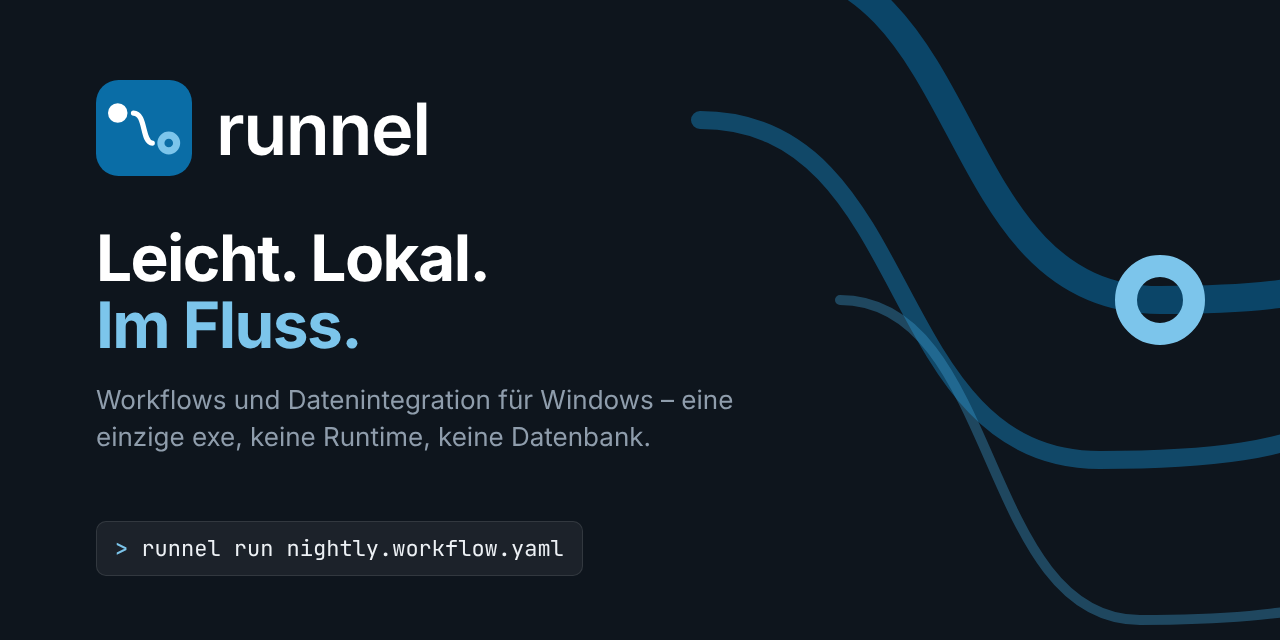
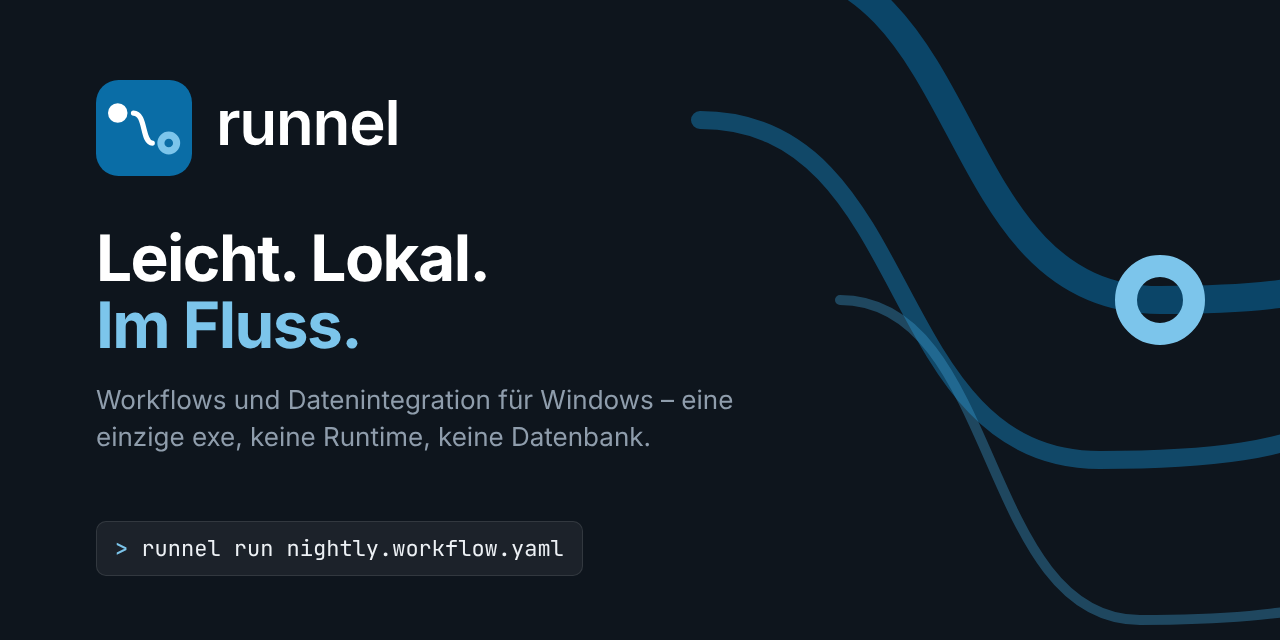
Define spelling of the product name (Runnel vs. runnel)
Product name is "Runnel" in text, UI and Windows metadata; lowercase
"runnel" only as the graphical wordmark and as command/identifier in
monospace. Adds handbook section 7.1, records the decision in ADR 0011
and embeds the wordmark as SVG in the social card instead of live text.

Claude-Session: https://claude.ai/code/session_015qsFffFa9D28XBkcuBJQ3p

Changed region(s): [[0.1562, 0.1562, 0.3438, 0.25]]

diff --git a/design/social/social-card.html b/design/social/social-card.html
@@ -1,6 +1,7 @@
 <!doctype html>
 <!-- Vorlage für Social-/Open-Graph-Bild (1280 × 640). Als PNG exportiert: social-card.png.
-     Schriften: Inter und JetBrains Mono müssen installiert oder per @font-face eingebunden sein. -->
+     Das Logo ist als SVG eingebettet (Wortmarke nie als Text setzen).
+     Schriften für Claim und Text: Inter und JetBrains Mono müssen installiert oder per @font-face eingebunden sein. -->
 <html lang="de"><head><meta charset="utf-8"><title>Runnel Social Card</title>
 <style>
   :root { --strom-300:#7CC5EB; --strom-400:#3FA6DD; --strom-600:#0A6DA6; --tiefe-950:#0E151D; --tiefe-400:#8F9DAC; --tiefe-100:#EDF1F5; }
@@ -10,8 +11,7 @@
   .flow { position:absolute; inset:0; }
   .content { position:absolute; left:96px; top:80px; width:720px; }
   .logo { display:flex; align-items:center; gap:24px; }
-  .logo svg { width:96px; height:96px; }
-  .logo span { font-size:72px; font-weight:600; letter-spacing:-0.02em; }
+  .logo .logo-svg { height:96px; width:auto; display:block; }
   h1 { margin:48px 0 0; font-size:64px; line-height:1.05; font-weight:700; letter-spacing:-0.025em; }
   h1 em { font-style:normal; color:var(--strom-300); }
   p { margin:24px 0 0; font-size:26px; line-height:1.4; color:var(--tiefe-400); max-width:640px; }
@@ -29,10 +29,7 @@
     <circle cx="1160" cy="300" r="34" fill="none" stroke="#7CC5EB" stroke-width="22"/>
   </svg>
   <div class="content">
-    <div class="logo">
-      <svg viewBox="0 0 64 64"><rect width="64" height="64" rx="15" fill="#0A6DA6"/><circle cx="14.5" cy="22" r="6.5" fill="#fff"/><path d="M25 22C33.5 22 30.5 42 37.5 42" fill="none" stroke="#fff" stroke-width="3.5" stroke-linecap="round"/><circle cx="48.5" cy="42" r="5.25" fill="none" stroke="#7CC5EB" stroke-width="4.75"/></svg>
-      <span>runnel</span>
-    </div>
+    <div class="logo"><svg xmlns="http://www.w3.org/2000/svg" viewBox="0 0 204 64" class="logo-svg" role="img" aria-label="Runnel"><rect width="64" height="64" rx="15" fill="#0A6DA6"/><g><circle cx="14.5" cy="22" r="6.5" fill="#FFFFFF"/><path d="M25 22C33.5 22 30.5 42 37.5 42" fill="none" stroke="#FFFFFF" stroke-width="3.5" stroke-linecap="round"/><circle cx="48.5" cy="42" r="5.25" fill="none" stroke="#7CC5EB" stroke-width="4.75"/></g><path transform="translate(80 43.25) scale(0.020134)" fill="#FFFFFF" d="M138 0V-1118H390V-931H402Q432 -1028 507 -1080.5Q582 -1133 678 -1133Q700 -1133 727 -1131Q754 -1129 773 -1126V-887Q757 -892 721 -896Q685 -900 650 -900Q578 -900 520.5 -869Q463 -838 430.5 -783.5Q398 -729 398 -658V0Z M1293 14Q1178 14 1091.5 -35Q1005 -84 957.5 -178.5Q910 -273 910 -407V-1118H1170V-447Q1170 -335 1228.5 -271Q1287 -207 1389 -207Q1458 -207 1512 -237Q1566 -267 1596.5 -325Q1627 -383 1627 -463V-1118H1888V0H1641L1638 -276H1658Q1611 -130 1519 -58Q1427 14 1293 14Z M2383.1 -655V0H2123.1V-1118H2369.1L2373.1 -842H2352.1Q2399.1 -987 2490.1 -1059.5Q2581.1 -1132 2718.1 -1132Q2833.1 -1132 2919.1 -1083Q3005.1 -1034 3052.6 -940Q3100.1 -846 3100.1 -711V0H2840.1V-671Q2840.1 -783 2782.1 -847Q2724.1 -911 2622.1 -911Q2553.1 -911 2499.1 -881Q2445.1 -851 2414.1 -793.5Q2383.1 -736 2383.1 -655Z M3595.1 -655V0H3335.1V-1118H3581.1L3585.1 -842H3564.1Q3611.1 -987 3702.1 -1059.5Q3793.1 -1132 3930.1 -1132Q4045.1 -1132 4131.1 -1083Q4217.1 -1034 4264.6 -940Q4312.1 -846 4312.1 -711V0H4052.1V-671Q4052.1 -783 3994.1 -847Q3936.1 -911 3834.1 -911Q3765.1 -911 3711.1 -881Q3657.1 -851 3626.1 -793.5Q3595.1 -736 3595.1 -655Z M5041.2 23Q4872.2 23 4750.7 -48Q4629.2 -119 4563.7 -248Q4498.2 -377 4498.2 -552Q4498.2 -725 4562.7 -855Q4627.2 -985 4745.7 -1058.5Q4864.2 -1132 5024.2 -1132Q5126.2 -1132 5218.7 -1099Q5311.2 -1066 5382.7 -997Q5454.2 -928 5494.7 -821.5Q5535.2 -715 5535.2 -568V-486H4621.2V-663H5406.2L5284.2 -611Q5284.2 -705 5255.2 -776.5Q5226.2 -848 5168.7 -888Q5111.2 -928 5025.2 -928Q4939.2 -928 4879.2 -887.5Q4819.2 -847 4787.7 -779.5Q4756.2 -712 4756.2 -629V-507Q4756.2 -401 4792.2 -328Q4828.2 -255 4893.2 -218Q4958.2 -181 5044.2 -181Q5101.2 -181 5147.7 -197.5Q5194.2 -214 5228.2 -246.5Q5262.2 -279 5279.2 -326L5518.2 -277Q5491.2 -187 5426.2 -119.5Q5361.2 -52 5263.7 -14.5Q5166.2 23 5041.2 23Z M5977.2 -1490V0H5717.2V-1490Z"/></svg></div>
     <h1>Leicht. Lokal.<br><em>Im Fluss.</em></h1>
     <p>Workflows und Datenintegration für Windows – eine einzige exe, keine Runtime, keine Datenbank.</p>
   </div>

diff --git a/design/README.md b/design/README.md
@@ -80,8 +80,8 @@ Inter SemiBold mit −2 % Laufweite, als Pfade gespeichert (keine Schrift nötig
 | `logo/runnel-wordmark.svg`, `…-inverse.svg` | Nur Wortmarke (wenn das Icon bereits daneben steht) |
 | `logo/png/runnel-logo.png`, `…-inverse.png` | 1020 × 320 px für Office, Präsentationen, E-Mail-Signatur |
 
-Im Fließtext heißt das Produkt immer **Runnel** (großes R). Die Kleinschreibung gibt es nur in der Wortmarke und
-als Befehl (`runnel`).
+Der Produktname ist **Runnel** (großes R). Die Kleinschreibung „runnel“ gibt es nur als **Grafik** (Wortmarke als
+SVG/PNG) und als **Befehl** in Monospace – nie als getippter Text. Details: [Kapitel 7.1](#71-schreibweise-des-namens).
 
 ### 2.3 Regeln
 
@@ -89,6 +89,8 @@ als Befehl (`runnel`).
 - **Mindestgröße:** App-Icon 16 px (dann `runnel-icon-small.svg`), Logo mit Wortmarke 96 px breit (Bildschirm) bzw. 25 mm (Druck).
 - **Hintergründe:** Standard-Logo auf Weiß bis Tiefe-100; Inverse-Logo auf Tiefe-800 bis Tiefe-950 und Strom-700 bis Strom-950.
   Auf Fotos nur das App-Icon (mit eigener Fläche).
+- **Wortmarke nie nachsetzen:** „runnel“ wird nicht mit einer Schrift als Text gesetzt (auch nicht in HTML oder
+  Präsentationen), sondern immer als Datei eingebunden. Wo ein Name als Text nötig ist, steht „Runnel“.
 - **Nicht erlaubt:** verzerren, drehen, spiegeln (der Fluss geht immer von oben links nach unten rechts), Farben
   austauschen, Link verdicken oder an Start/Ziel anschließen, Schatten/Verläufe/Konturen hinzufügen, Wortmarke in einer anderen Schrift nachsetzen, Ring und Punkt vertauschen.
 
@@ -247,7 +249,9 @@ Canvas-Konventionen ([Konzept, Kap. 11](../docs/KONZEPT.md#11-editor--ux-konzept
 | Links | 2 px, Bézier wie in der Bildmarke; Farbe nach Typ (`--link-*`), Symbol ✔/✖/∞/ƒ in der Mitte; aktiv = „Strömung“ |
 | Zeilenzähler an Links | Monospace 11 px, `tabular-nums`, Pille auf `--card` |
 
-Der Editor zeigt das Logo nur einmal: App-Icon (20 px) + Wortmarke oben links. Favicon und Fenster-Icon (WebView2) = `favicon.svg` bzw. `runnel.ico`.
+Der Editor zeigt das Logo nur einmal: App-Icon (20 px) + Wortmarke als SVG oben links, mit `aria-label="Runnel"`.
+Favicon und Fenster-Icon (WebView2) = `favicon.svg` bzw. `runnel.ico`. Fenster- und Tab-Titel: „‹Datei› – Runnel“,
+z. B. „nightly-import – Runnel“; ohne geöffnete Datei nur „Runnel“.
 
 ### 6.2 Website
 
@@ -302,6 +306,28 @@ Farben nur bei TTY und ohne `NO_COLOR`; Symbole (✔ ✖ ⚠) immer, damit Logs 
 ---
 
 ## 7. Sprache und Ton
+
+### 7.1 Schreibweise des Namens
+
+| Kontext | Schreibweise |
+|---|---|
+| Fließtext, Überschriften, UI-Texte, Alt-Texte, Tooltips, Fenster- und Tab-Titel | **Runnel** |
+| Windows: `ProductName`/`FileDescription` der exe, Anzeigename des Dienstes, Startmenü, Installer, winget-Name | **Runnel** |
+| Logo, Wortmarke | **runnel** – ausschließlich als SVG/PNG aus `logo/`, nie mit einer Schrift nachgesetzt |
+| Befehl, Binary, Dateinamen, Pfade, Domain, GitHub-Organisation, Go-Modul | `runnel` – im Text immer als Code (Monospace) |
+| Technische Präfixe | `RUNNEL_` (Umgebungsvariablen), `runnel/v1` (`apiVersion`) |
+| Zusammensetzungen | mit Bindestrich: „Runnel-Editor“, „Runnel-Projekt“, „Runnel-Workflow“ |
+| Genitiv | „der Editor von Runnel“ oder „Runnel-Editor“, nicht „Runnels Editor“ |
+
+Nicht erlaubt:
+
+- „RUNNEL“ als Name – auch nicht in Überschriften in Großbuchstaben oder in Labels; dort „Runnel“ verwenden.
+- Abweichende Formen wie „RunNel“, „Run-nel“, „runnel.exe“ als Produktname.
+- „runnel“ am Satzanfang – umformulieren: „Der Befehl `runnel run` startet …“.
+
+Die Ausgabe von `runnel version` („runnel v0.1.0 …“) nennt den Befehl, nicht das Produkt, und bleibt klein.
+
+### 7.2 Ton
 
 - **Sachlich, knapp, konkret.** Runnel spricht wie eine erfahrene Kollegin, nicht wie ein Werbeprospekt.
 - UI-Texte im Infinitiv bzw. Imperativ ohne Anrede: „Pipeline ausführen“, „Änderungen speichern“. Wo eine Anrede nötig ist: **du**.

diff --git a/docs/adr/0011-corporate-design.md b/docs/adr/0011-corporate-design.md
@@ -25,7 +25,8 @@ Das Corporate Design liegt unter [`design/`](../../design/README.md) und besteht
 | Baustein | Festlegung |
 |---|---|
 | Bildmarke | Start-Punkt → geschwungener Link → Ziel-Ring (kleinster Workflow, zugleich Wasserlauf); drei getrennte Elemente, dünner Link |
-| Wortmarke | „runnel“, Kleinbuchstaben, Inter SemiBold, −2 % Laufweite, als Pfade |
+| Wortmarke | „runnel“, Kleinbuchstaben, Inter SemiBold, −2 % Laufweite, als Pfade – nur als Grafik, nie als Text |
+| Schreibweise | Produktname **Runnel** in Text, UI und Windows-Metadaten; `runnel` nur als Befehl/technischer Bezeichner in Monospace ([Handbuch, Kap. 7.1](../../design/README.md#71-schreibweise-des-namens)) |
 | Markenfarbe | **Strom** (Wasserblau), Hauptton Strom 600 `#0A6DA6` |
 | Neutralfarbe | **Tiefe** (kühles Schiefergrau), dunkler Grund Tiefe 950 `#0E151D` |
 | Funktionsfarben | Erfolg, Fehler, Warnung, **Ausdruck = Indigo** `#4549C9` (statt Markenblau, damit Auswahl/Fokus und Ausdrucks-Links unterscheidbar bleiben) |
@@ -34,6 +35,11 @@ Das Corporate Design liegt unter [`design/`](../../design/README.md) und besteht
 | Claim | „Leicht. Lokal. Im Fluss.“ |
 
 ## Konsequenzen
+
+- Kleine Wortmarke und großer Produktname stehen bewusst nebeneinander (wie bei vielen Entwicklerwerkzeugen):
+  Die Marke zeigt den Befehl, den man tippt; im Text bleibt der Name ein normales Substantiv. Damit das nicht
+  verwischt, darf „runnel“ nie als Text gesetzt werden. Erwogen und verworfen: Wortmarke „Runnel“ (förmlicher,
+  verliert die Nähe zum Befehl) und durchgehende Kleinschreibung (widerspricht ADR 0010, schwierig im Deutschen).
 
 - Der Editor (S30) bindet `design/tokens/tailwind.css` ein und verwendet ausschließlich die semantischen Rollen;
   Hex-Werte im Frontend-Code sind nicht erlaubt.
